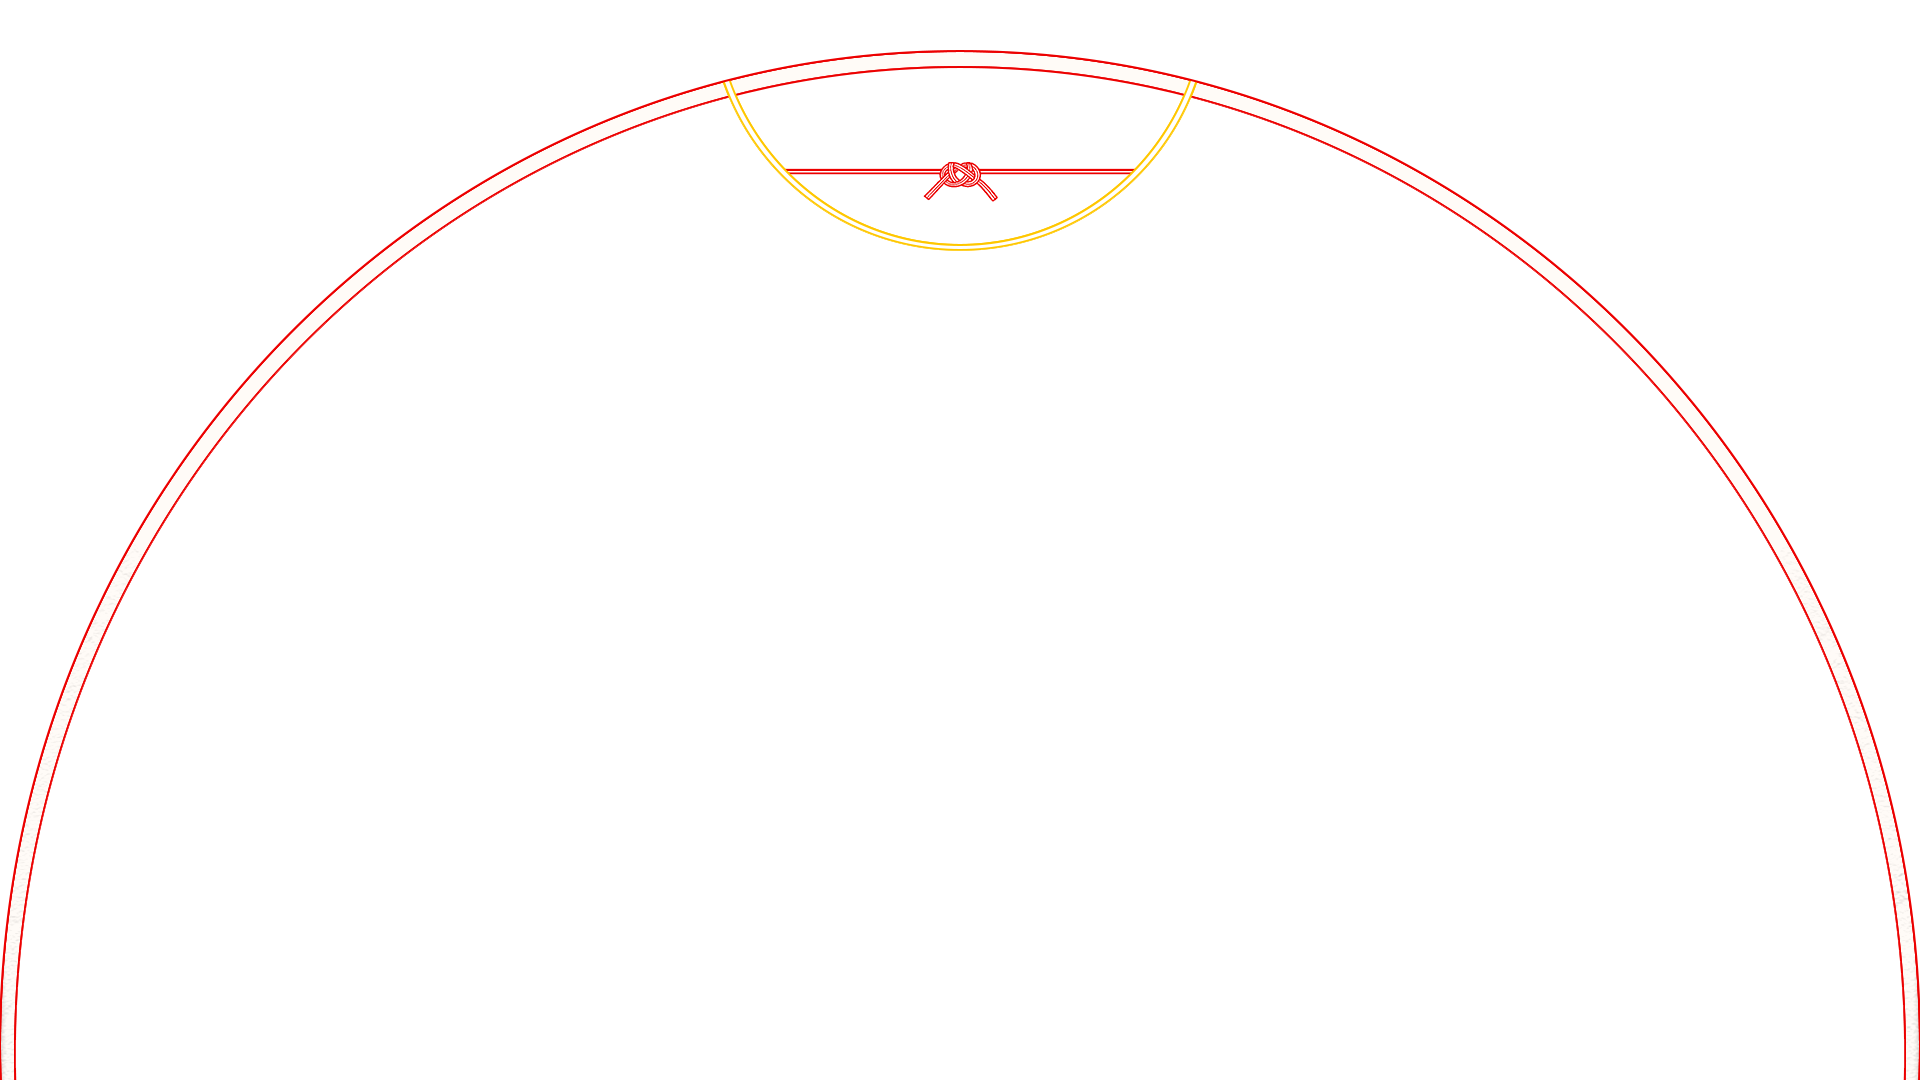
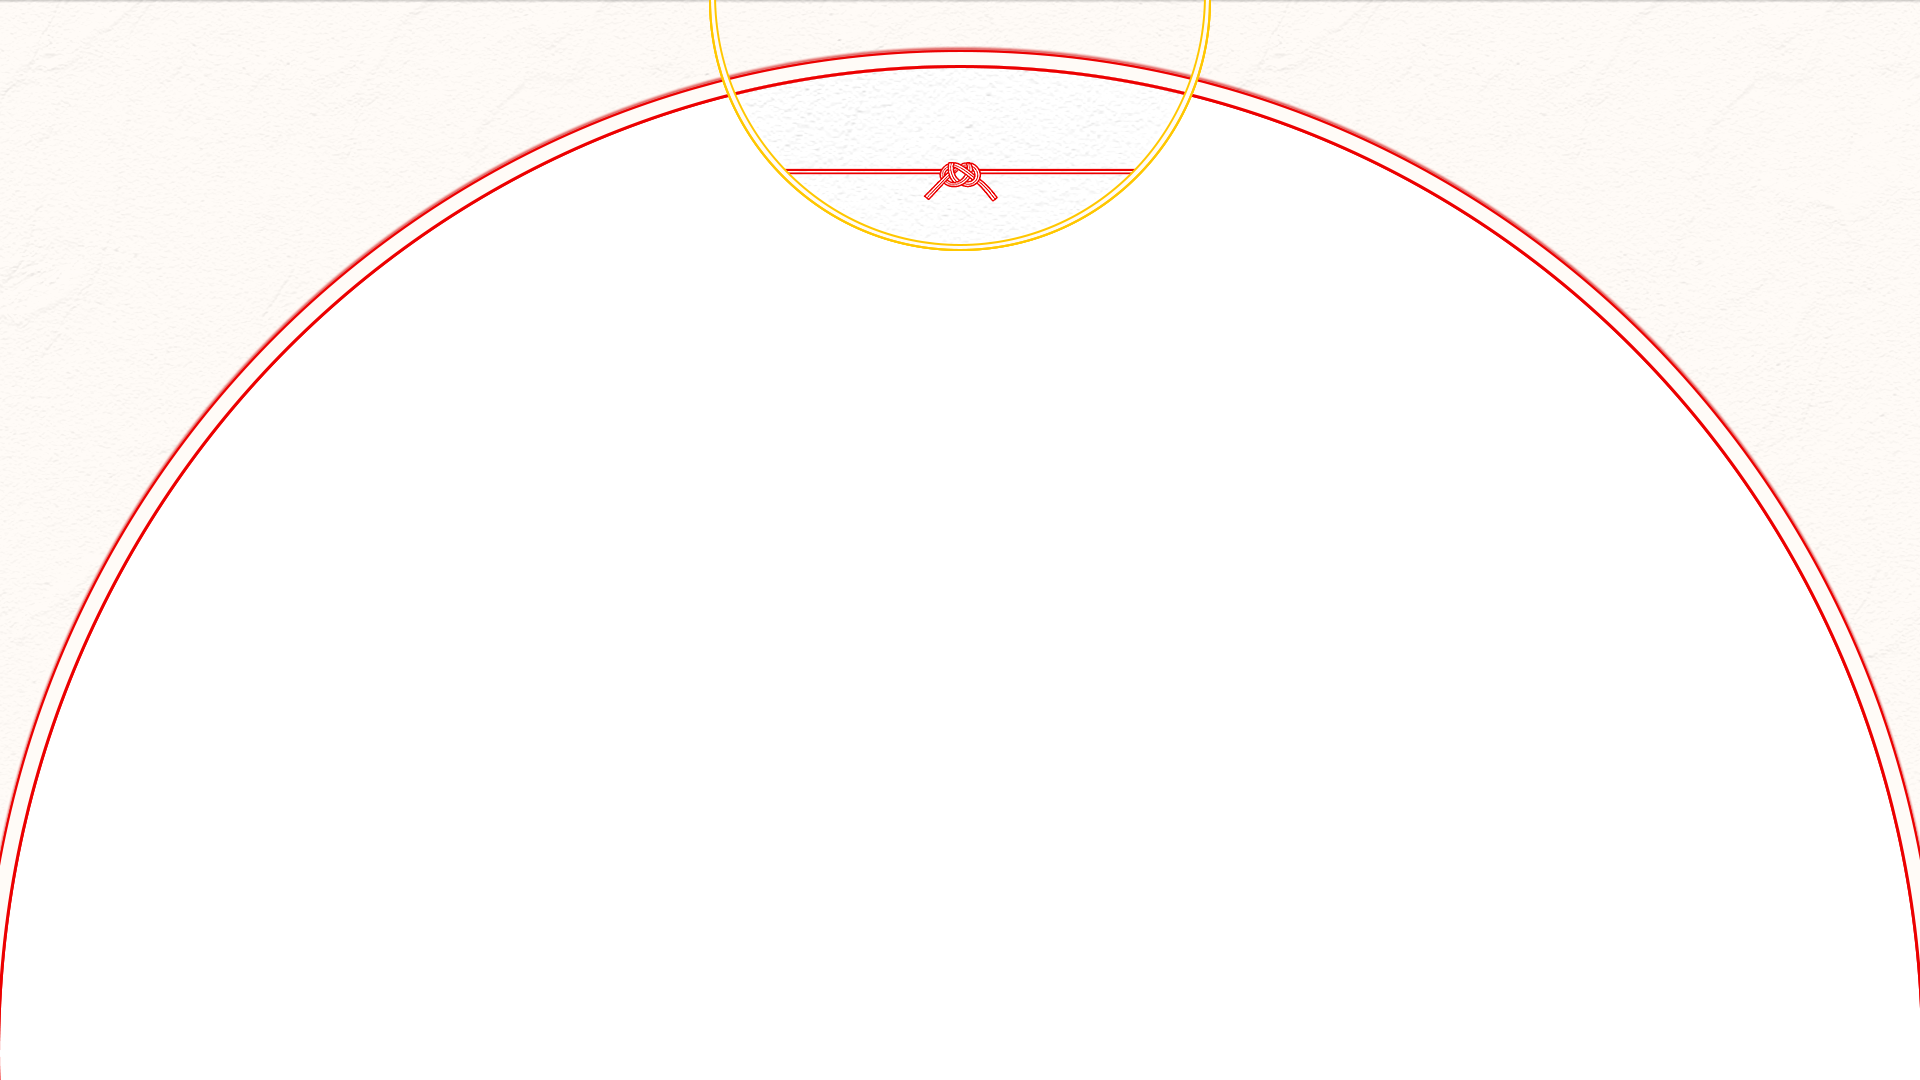
[Feat] edit function register and background img

diff --git a/src/main/webapp/regPage/reg.css b/src/main/webapp/regPage/reg.css
@@ -17,7 +17,7 @@
 
 .hs_background {
 	background-image: url('ImgFolder/background-1.png'),
-		url('ImgFolder/background-2.png');
+	url('ImgFolder/background-1-1.png');
 	background-size: cover;
 	background-position: center;
 	width: 100%;
@@ -269,8 +269,7 @@
 }
 
 .hs_footer-background{
-	background-image : url('ImgFolder/background-4.png'),
-	url('ImgFolder/background-3.png');
+	background-image : url('ImgFolder/background-2.png');
 	background-size: cover;
 	background-position: center;
 	width: 100%;

diff --git a/src/main/java/com/enmusubi/member/MemberDAO.java b/src/main/java/com/enmusubi/member/MemberDAO.java
@@ -225,7 +225,7 @@ public class MemberDAO {
 			if (result == 1) {
 				// 회원가입 및 주소 등록 성공 처리
 				System.out.println("회원가입 성공");
-				request.getRequestDispatcher("MemberC").forward(request, response);
+//				request.getRequestDispatcher("MemberC").forward(request, response);
 			} else {
 				// 회원가입 실패 처리
 				System.out.println("アカウント登録失敗");

diff --git a/src/main/java/com/enmusubi/member/MemberRegC.java b/src/main/java/com/enmusubi/member/MemberRegC.java
@@ -22,7 +22,7 @@ public class MemberRegC extends HttpServlet {
 
 		MemberDAO.MemberRegC(request, response);
 		
-		
+		request.getRequestDispatcher("MemberC").forward(request, response);
 		
 	}
 }
